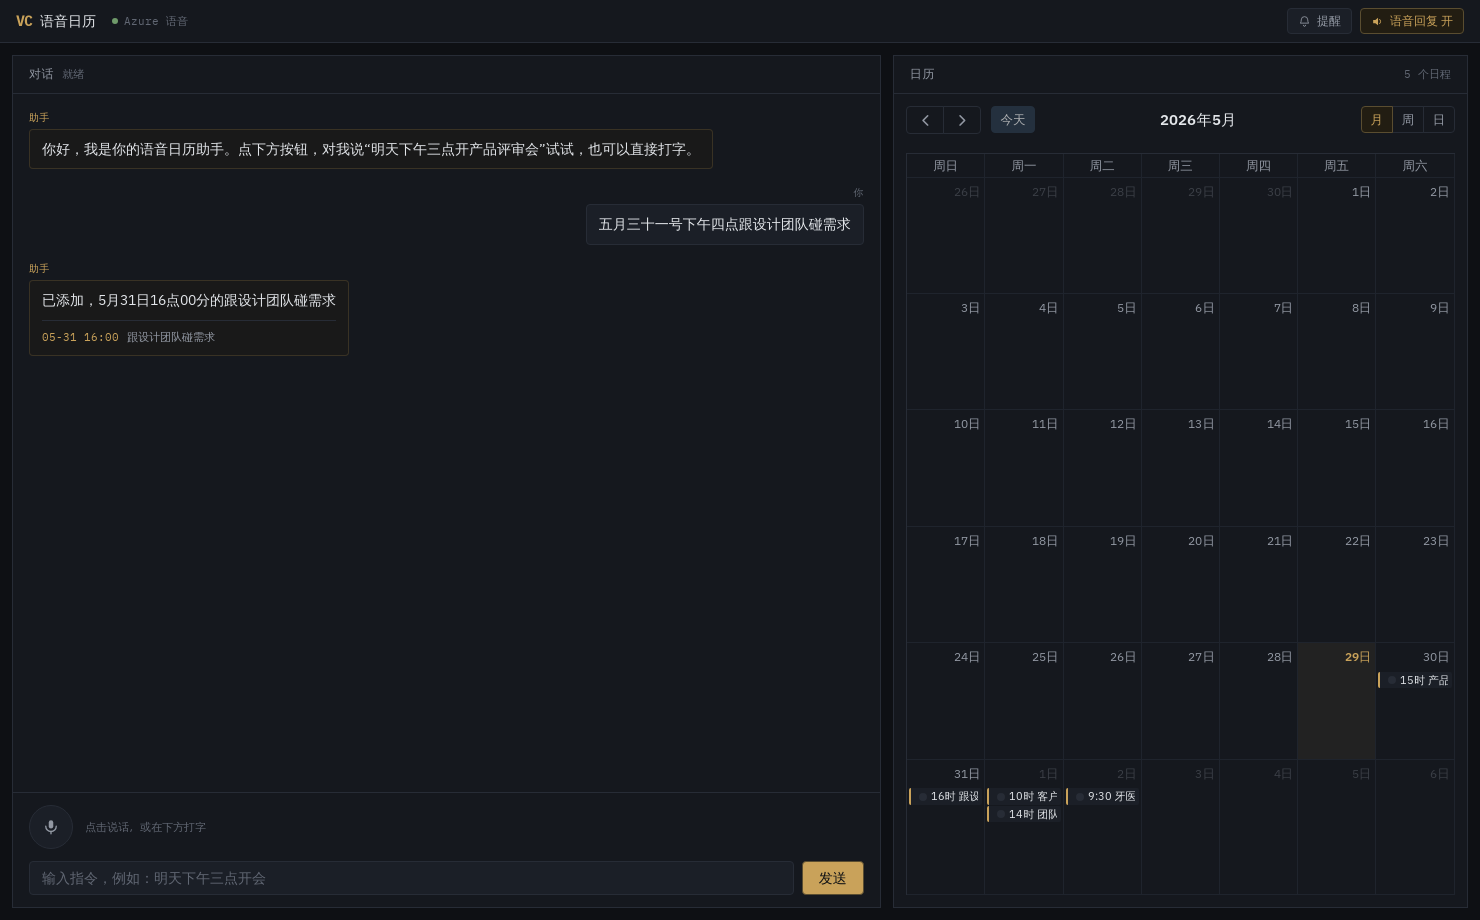
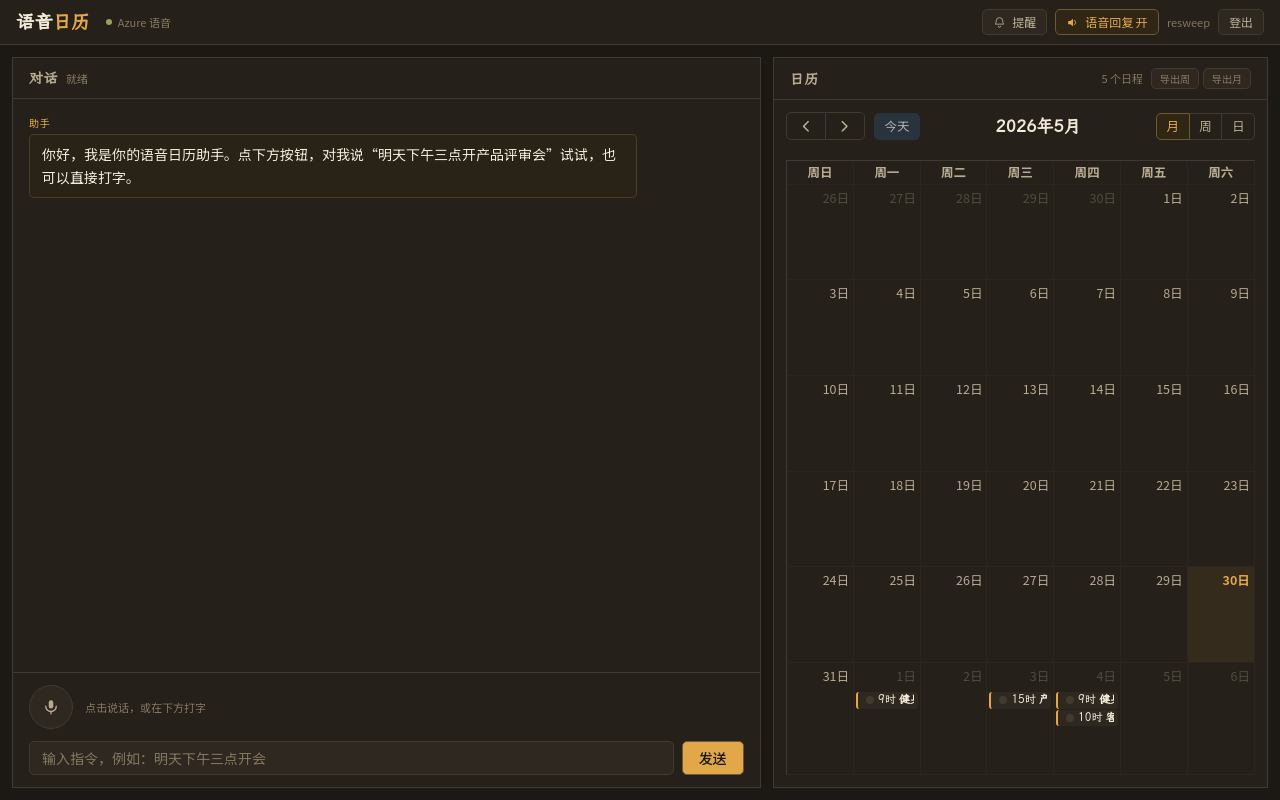
docs: 修正 README 数字 + 更新截图至当前 UI
- PR 数 15+ → 45+（实际已合并 45 个 PR）
- 测试数 100 → 153（当前后端测试项数）
- docs/screenshot.png 替换为当前 UI（手账风，无旧版"VC"前缀标记）

diff --git a/README.md b/README.md
@@ -86,9 +86,9 @@ cd backend && python scripts/demo_cli.py
 
 ## AI 协作声明
 
-本项目通过 **Claude Code** 辅助开发，全程规范 PR 工作流（15+ 个小 PR，每个含功能/思路/测试说明）。
+本项目通过 **Claude Code** 辅助开发，全程规范 PR 工作流（45+ 个小 PR，每个含功能/思路/测试说明）。
 完整的 Prompt 思路、关键技术决策、AI 出错与人工修正实例，记录在 [docs/复盘.md](docs/复盘.md)。
-代码经过人工审阅、单元测试（后端 100 项全过）与真实环境联调定型。
+代码经过人工审阅、单元测试（后端 153 项全过）与真实环境联调定型。
 
 ## 开源协议
 